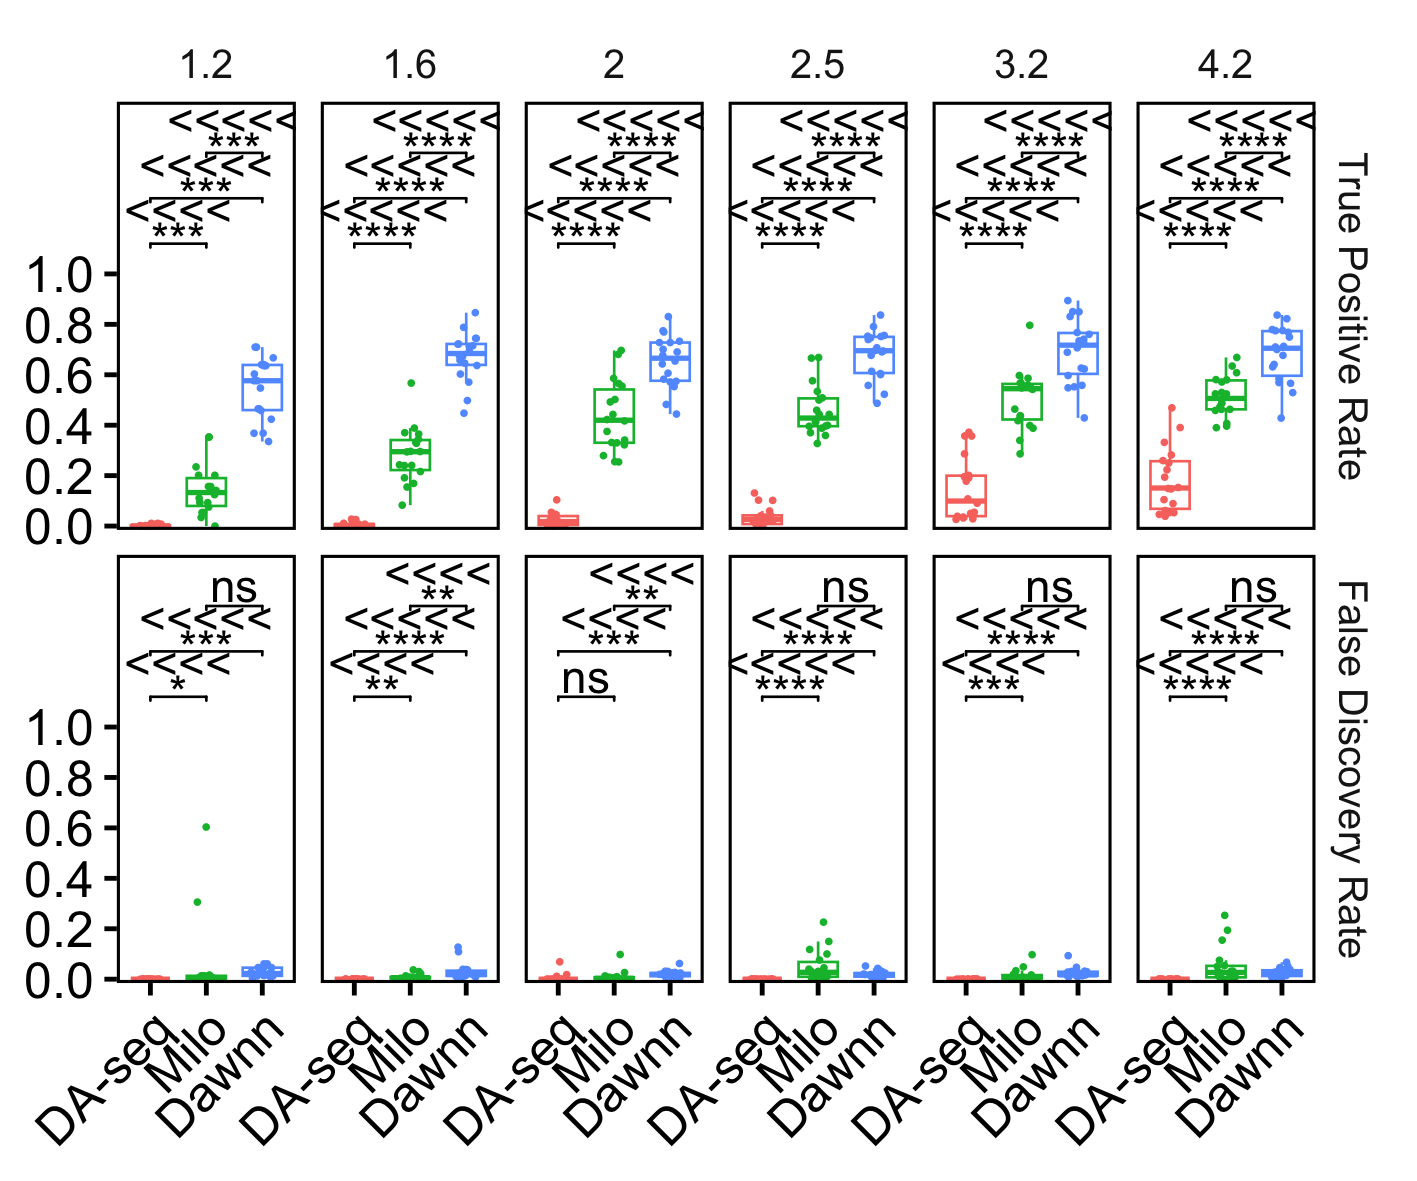
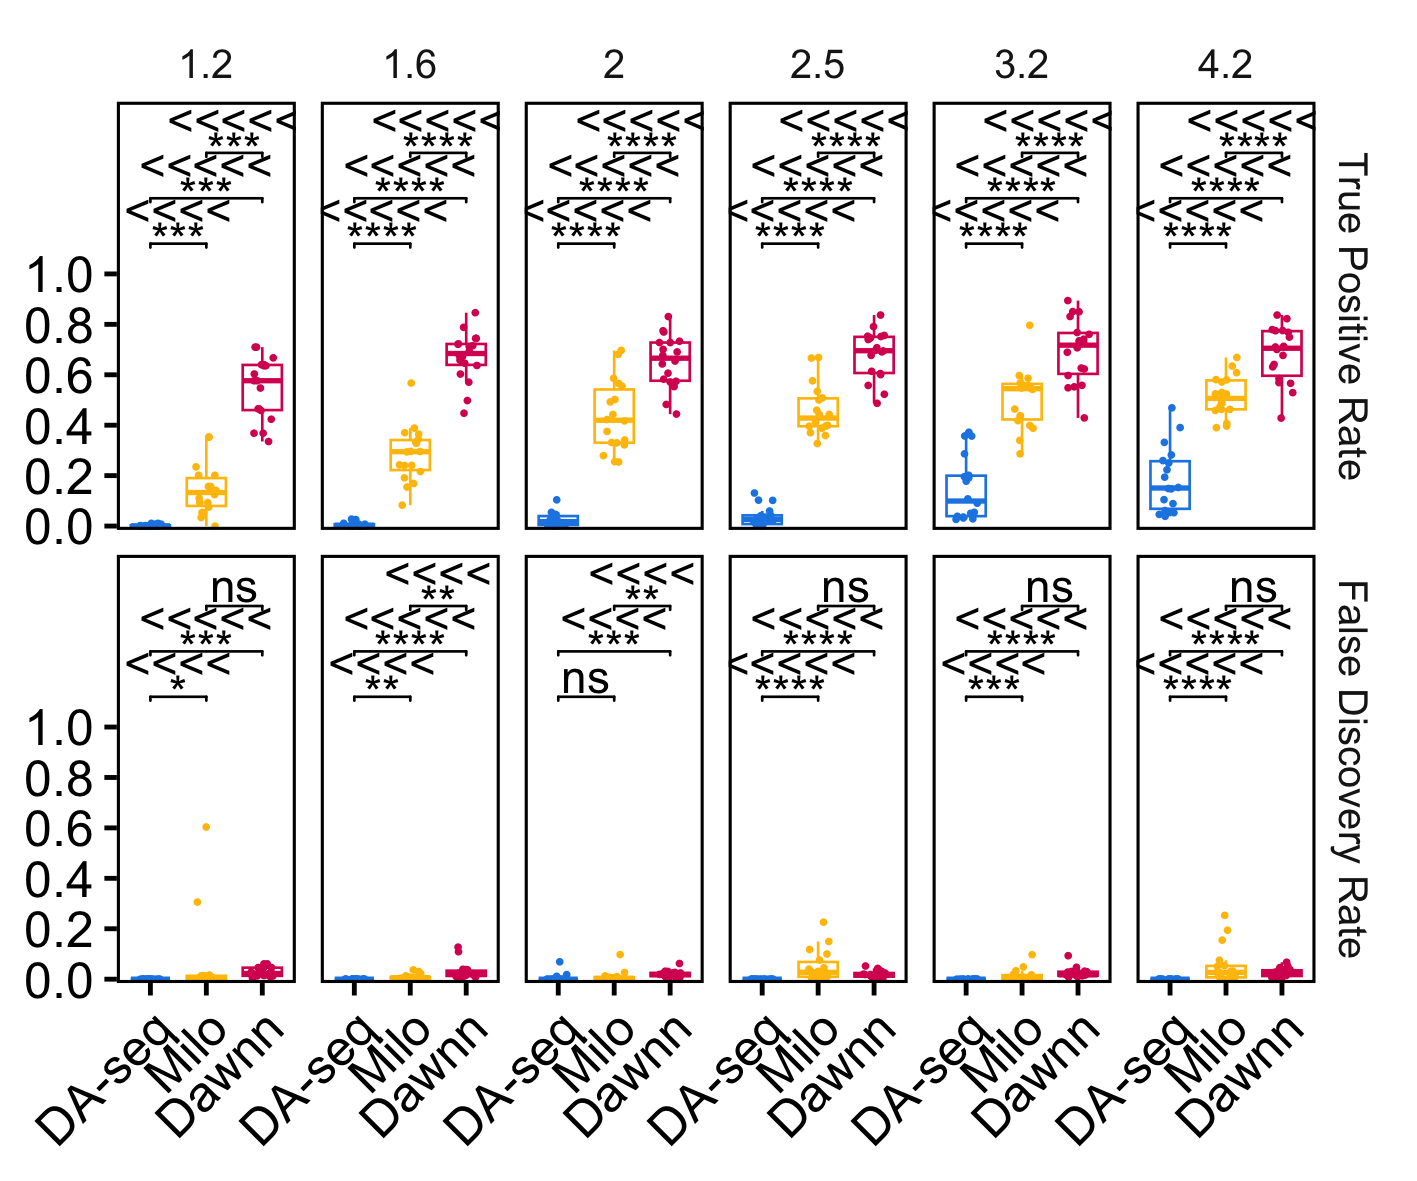
Use colourblind-friendly colours in graphs

diff --git a/benchmarking_results.md b/benchmarking_results.md
@@ -99,6 +99,7 @@ plot_accuracy_results <- function(results) {
         geom_boxplot(aes(color = method), outlier.shape = NA) +
         geom_jitter(aes(color = method), size = 0.5, width = 0.2, alpha = 0.5) +
         geom_hline(aes(yintercept = hline, color = method), alpha = 0.75) +
+        scale_color_manual(values = c("#1E88E5", "#FFC107", "#D81B60")) +
         theme_bw() +
         theme(axis.text.x = element_text(angle = 45, hjust = 1),
               legend.position = "none", axis.title.y = element_blank(),
@@ -123,7 +124,8 @@ plot_accuracy_results_signif <- function(results) {
     results <- parse_results(results)
     bxp <- ggboxplot(results, x = "method", y = "value", color = "method",
                      add = "jitter", add.params = list(size = 0.2), size = 0.3,
-                     facet.by = c("stat", "upreg_lfc"))
+                     facet.by = c("stat", "upreg_lfc")) +
+           scale_color_manual(values = c("#1E88E5", "#FFC107", "#D81B60"))
 
     stat.test <- results %>%
                  group_by(stat, upreg_lfc) %>%
@@ -589,11 +591,11 @@ runtime_results$Method[runtime_results$Method == "dawnn"] <- "Dawnn"
 runtime_results$Method[runtime_results$Method == "milo"] <- "Milo"
 runtime_results$Method[runtime_results$Method == "daseq"] <- "DA-seq"
 runtime_results$Method <- factor(runtime_results$Method,
-                                 levels = c("Dawnn", "DA-seq", "Milo"))
+                                 levels = c("DA-seq", "Milo", "Dawnn"))
 
 runtime_plot <- ggplot(runtime_results, aes(x = n, y = t, color = Method)) +
                 geom_point() + xlab("Number of cells") + ylab("Time (secs)") +
-                scale_color_manual(values = c("#D81B60", "#1E88E5", "#FFC107")) +
+                scale_color_manual(values = c("#1E88E5", "#FFC107", "#D81B60")) +
                 theme_classic() + theme(legend.title = element_blank())
 runtime_plot
 ```
